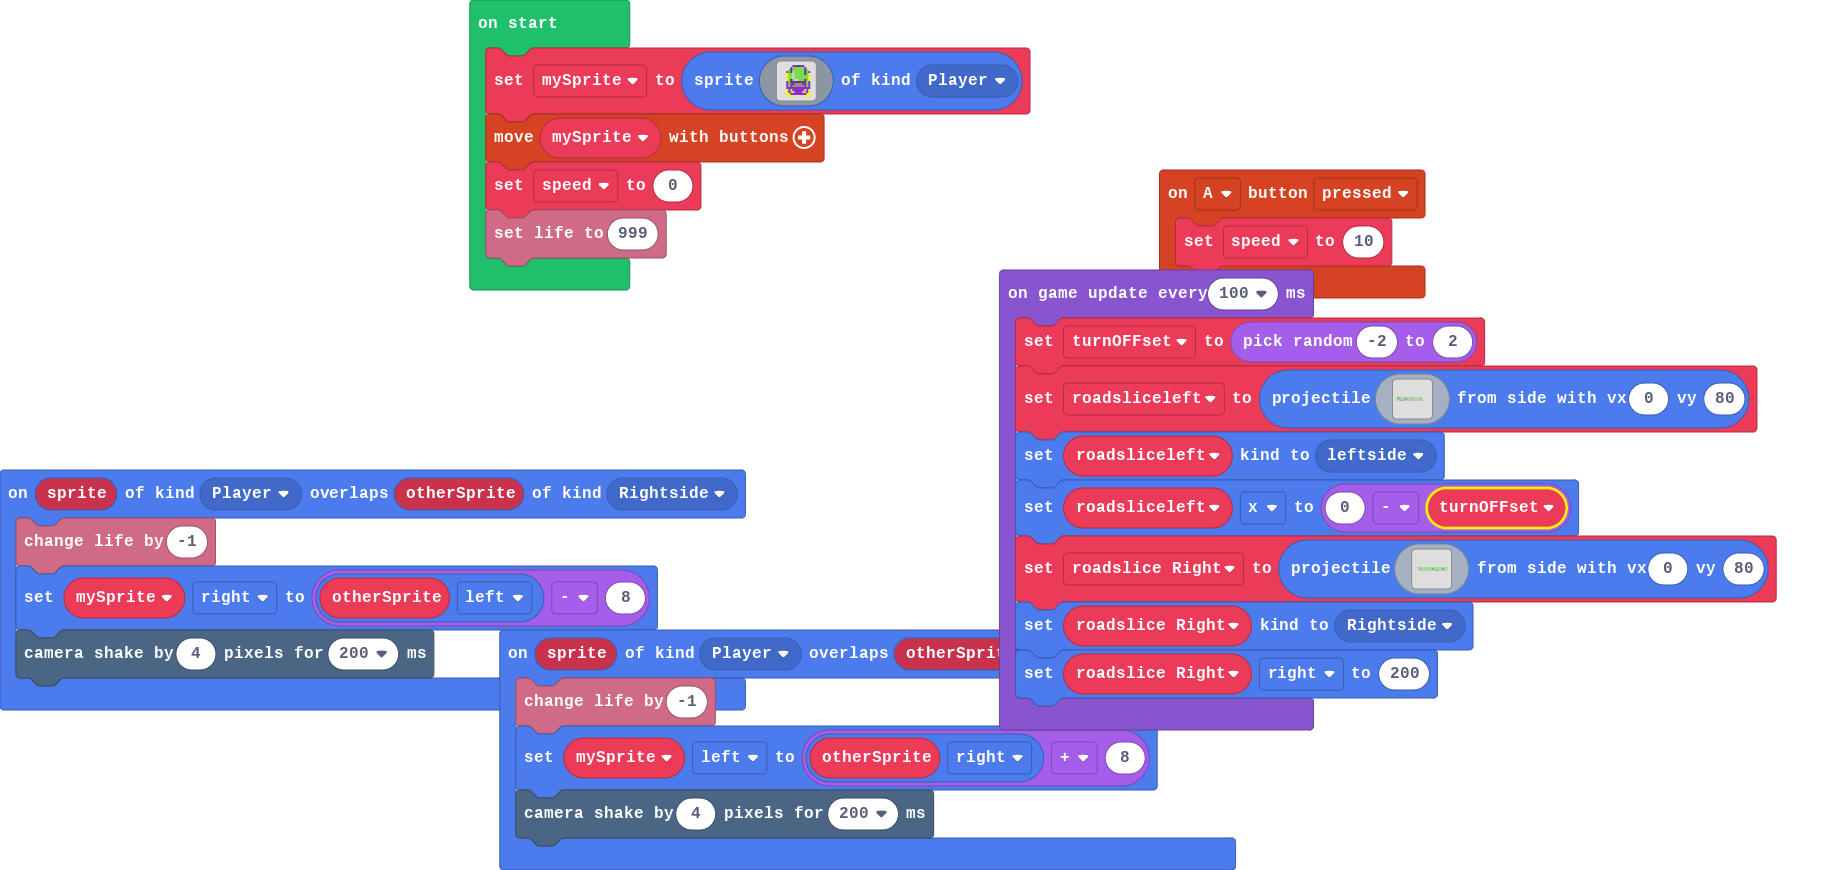
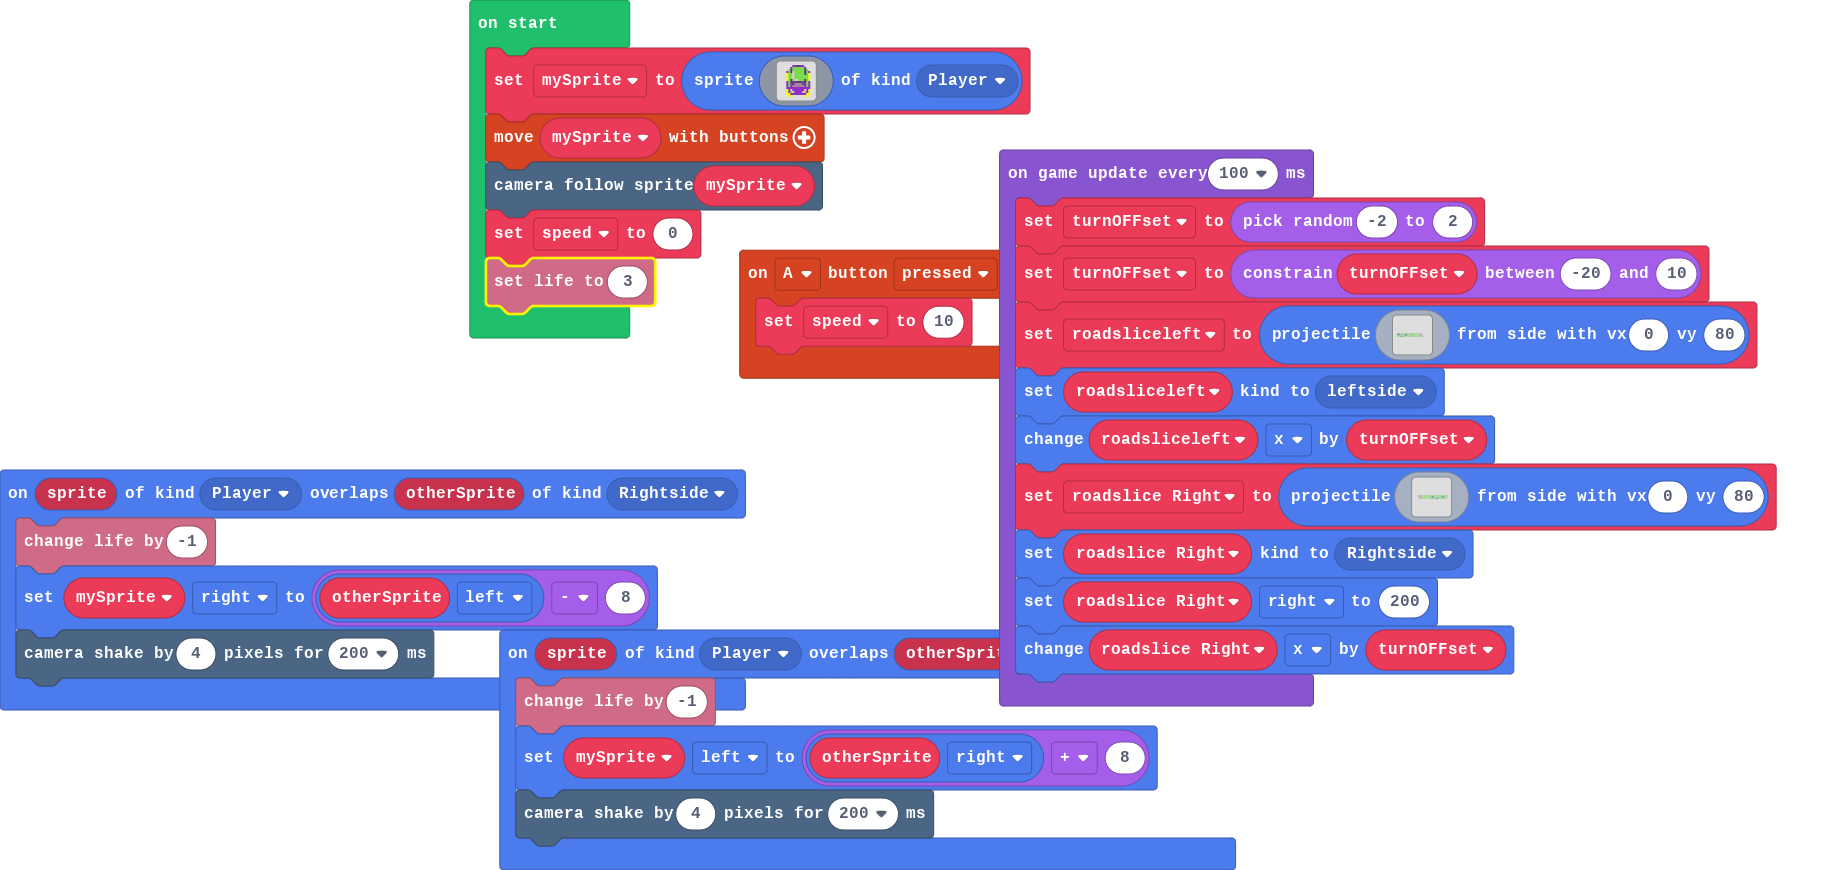
Update main.blocks, main.ts, images.g.jres, images.g.ts

Changed region(s): [[0.2495, 0.1552, 0.9978, 0.8379]]

diff --git a/main.ts b/main.ts
@@ -39,10 +39,12 @@ mySprite = sprites.create(img`
     . . . . 5 5 . . . . . . 5 5 . . 
     `, SpriteKind.Player)
 controller.moveSprite(mySprite)
+scene.cameraFollowSprite(mySprite)
 speed = 0
-info.setLife(999)
+info.setLife(3)
 game.onUpdateInterval(100, function () {
     turnOFFset = randint(-2, 2)
+    turnOFFset = Math.constrain(turnOFFset, -20, 10)
     roadsliceleft = sprites.createProjectileFromSide(img`
         77777777777777777777777777777777777bbbbb77777777777777777bbbbb..................
         77788888777777777777777777777777777bbbbb77777777777777777bbbbb..................
@@ -56,7 +58,7 @@ game.onUpdateInterval(100, function () {
         7777777777788888777777777777777777777bbbbbb77777777777777777bbbbbb..............
         `, 0, 80)
     roadsliceleft.setKind(SpriteKind.leftside)
-    roadsliceleft.x = 0 - turnOFFset
+    roadsliceleft.x += turnOFFset
     roadslice_Right = sprites.createProjectileFromSide(img`
         ......bbbbb777777777777777777777777777777777777777777777777777777777777777777777
         ......bbbbb777777777777777777777777777777777777777777777777777777777777777777777
@@ -71,4 +73,5 @@ game.onUpdateInterval(100, function () {
         `, 0, 80)
     roadslice_Right.setKind(SpriteKind.Rightside)
     roadslice_Right.right = 200
+    roadslice_Right.x += turnOFFset
 })

diff --git a/images.g.ts b/images.g.ts
@@ -45,6 +45,18 @@ namespace myImages {
 ........bbbbbb777777777777777777777777777777777777788888777777777777777777777777
 ........bbbbbb777777777777777777777777777777777777788888777777777777777777777777
 `;
+            case "image1":return img`
+......bbbbb777777777777777777777777777777777777777777777777777777777777777777777
+......bbbbb777777777777777777777777777777777777777777777777777777777777777777777
+......bbbbbbb7777777777777777777777777778888877777777777777777777788888777777777
+......bbbbbbb7777777777777777777777777778888877777777777777777777788888777777777
+......bbbbbbb7777777777777777777777777778888877777777777777777777788888777777777
+........bbbbbb777777777777777777777777778888877777777777777777777788888777777777
+........bbbbbb777777777777777777777777778888877777777777777777777788888777777777
+........bbbbbb777777777777777777777777777777777777788888777777777777777777777777
+........bbbbbb777777777777777777777777777777777777788888777777777777777777777777
+........bbbbbb777777777777777777777777777777777777788888777777777777777777777777
+`;
         }
         return null;
     })
